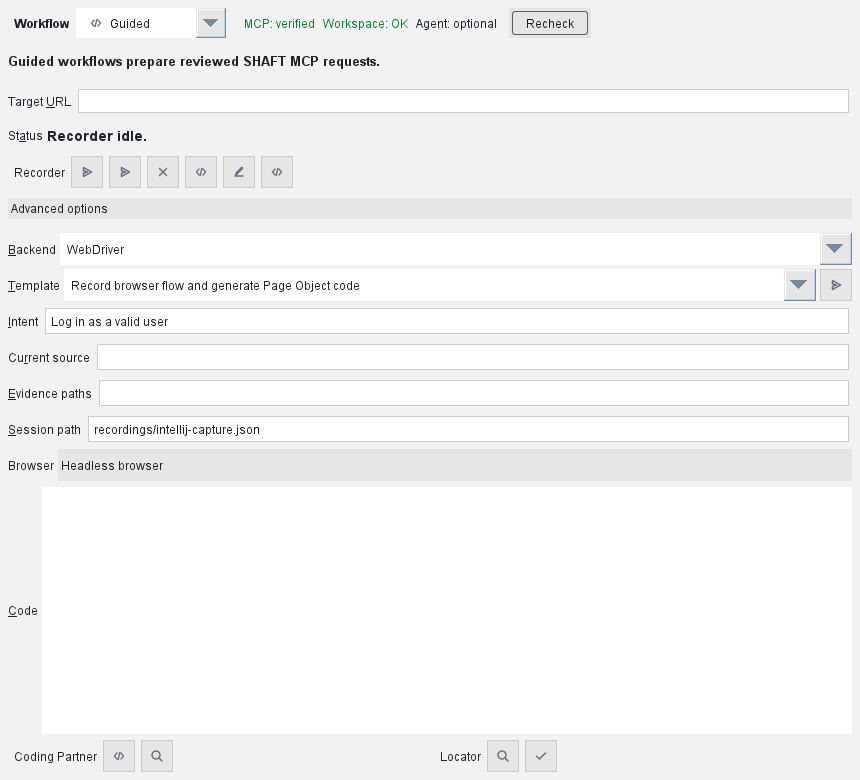
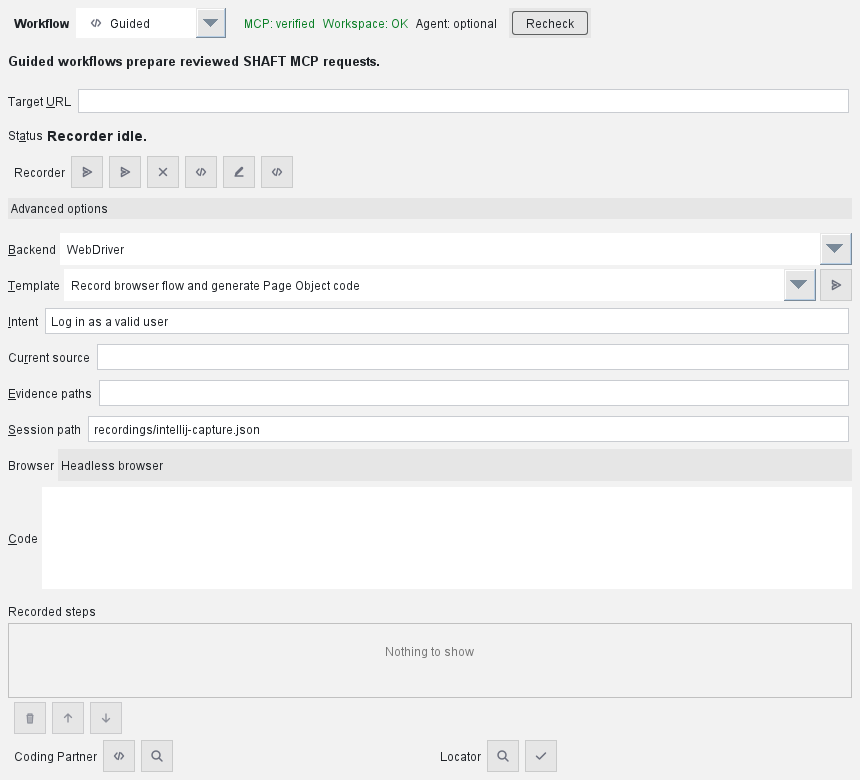
docs: catalog the Phase 4/5 shipped items (#3634-#3642), regenerate guided.png
Adds a "What Changed" row summarizing the 9 shipped issues. Regenerated
intellij-plugin-guided.png (the only catalog screenshot that actually
changed content -- it now shows #3639's recorded-step Delete/Move
Up/Move Down icons); every other rendered screenshot's diff was
environment noise (font/AA) from panels none of these issues touched,
so those weren't committed.

Along the way, fixed ShaftPluginScreenshotRendererTest.invokeShowResult's
reflection lookup: ShaftFeaturePanel.showResult gained a Project
parameter in #3647 (Phase 2), and the reflection-based test call was
never updated, so -Dshaft.intellij.screenshotDir=... has been throwing
NoSuchMethodException since. Pre-existing bit-rot, not part of #3634-#3642,
but it blocked regenerating any screenshot via this test.

diff --git a/shaft-intellij/src/test/java/com/shaft/intellij/ui/ShaftPluginScreenshotRendererTest.java b/shaft-intellij/src/test/java/com/shaft/intellij/ui/ShaftPluginScreenshotRendererTest.java
@@ -732,7 +732,8 @@ class ShaftPluginScreenshotRendererTest {
         AtomicReference<BufferedImage> image = new AtomicReference<>();
         SwingUtilities.invokeAndWait(() -> {
             configureLookAndFeel(lookAndFeelClassName, dark);
-            ShaftFeaturePanel component = new ShaftFeaturePanel(screenshotProject(), defaultSettings());
+            Project project = screenshotProject();
+            ShaftFeaturePanel component = new ShaftFeaturePanel(project, defaultSettings());
             invokeShowResult(component, "doctor_analyze_failed_allure", ShaftMcpToolResult.success("""
                     {
                       "schemaVersion": "1.0",
@@ -756,7 +757,7 @@ class ShaftPluginScreenshotRendererTest {
                       "markdownReportPath": "target/shaft-doctor/doctor-report.md",
                       "warnings": []
                     }
-                    """), null);
+                    """), null, project);
             component.setSize(new Dimension(WIDTH, HEIGHT));
             component.setPreferredSize(new Dimension(WIDTH, HEIGHT));
             SwingUtilities.updateComponentTreeUI(component);
@@ -768,12 +769,13 @@ class ShaftPluginScreenshotRendererTest {
     }
 
     private static void invokeShowResult(
-            ShaftFeaturePanel component, String toolName, ShaftMcpToolResult result, Throwable error) {
+            ShaftFeaturePanel component, String toolName, ShaftMcpToolResult result, Throwable error,
+            Project project) {
         try {
             Method method = ShaftFeaturePanel.class.getDeclaredMethod(
-                    "showResult", String.class, ShaftMcpToolResult.class, Throwable.class);
+                    "showResult", String.class, ShaftMcpToolResult.class, Throwable.class, Project.class);
             method.setAccessible(true);
-            method.invoke(component, toolName, result, error);
+            method.invoke(component, toolName, result, error, project);
         } catch (ReflectiveOperationException exception) {
             throw new IllegalStateException("Unable to render the Tools panel result", exception);
         }

diff --git a/modular-era-feature-catalog.md b/modular-era-feature-catalog.md
@@ -225,6 +225,7 @@ Every screenshot in this catalog is real repository evidence under `shaft-engine
 | IntelliJ and MCP hardening for issue #3244 | Onboarding preflight now validates Windows JDK21 `JAVA_HOME` state and auto-creates `%JAVA_HOME%\\Packages` when possible, then reports clear missing/invalid/unwritable diagnostics; recorder re-record flows map discard to `capture_stop` with `discard=true`; and `shaft_project_create` supports optional `shaftVersion` with blank/null defaulting to the latest published stable `shaft-engine` while bundled example POMs remain reactor-versioned. | `intellij-plugin-mcp-setup.png`, `intellij-plugin-mcp-setup-error-dark.png`, `intellij-plugin-recorder.png`, `mcp-tools.png` |
 | Non-SHAFT-project hardening for issues #3396/#3397 | Every SHAFT-only Assistant action now gates on a real SHAFT dependency: tool approvals ("approve once/tool/all") persist per project instead of application-wide, the MCP connection heartbeat no longer polls in non-SHAFT projects, and mutating Assistant tools (`shaft_project_upgrade`, `verify_run_focused`, healer/doctor triage) return an onboarding nudge toward Create/Upgrade SHAFT Project instead of running. Settings > SHAFT "Test Connection" now probes the open project's workspace instead of the IDE process's own working directory. `healer_run_failed_test` fails fast with a guardrail message instead of burning guarded Maven builds when the target repository has no SHAFT dependency, and SHAFT MCP workspace errors for a missing Allure/report path now read as "no SHAFT setup found here" instead of a sandbox-escape message. | `intellij-plugin-assistant.png`, `intellij-plugin-assistant-approval-prompt.png`, `intellij-plugin-settings.png`, `intellij-plugin-settings-dark.png` |
 | IntelliJ trust/polish for issue #3601 (remaining scope) | Setup wizard: finished steps collapse to a compact line once a later step is active (click or Enter/Space to re-expand), the Target/Runtime line reads as a de-emphasized caption with "MCP" spelled out on first mention, the six steps are threaded by a connecting rule, raw probe output on failure hides behind a "Show details" toggle, and a non-destructive "Connection & agents" button re-checks readiness without the "Reset everything" factory reset. Settings: the MCP stdio command field is read-only once a wizard-set command exists, with an "Edit manually" gate before direct editing. Assistant: the first-run welcome no longer uses list-item emoji and now orients first-time users to the icon-only toolbar, "Allow source edits" gets a distinct bordered treatment from the neutral Verbose/Auto-compact toggles, a dismissible hint points fresh (non-SHAFT) projects at the "Create a new SHAFT project" template, and tool results now show narrative Markdown with a per-message "Show raw output" disclosure toggle for the underlying raw evidence (A5) instead of only a bulk transcript-export appendix. Guided: a dismissible soft prompt nudges collapsed-view users toward Advanced options for templates/backend controls. Accessibility: informational labels across the setup wizard, Assistant, Settings, and Guided panels now expose their live, dynamically-updated text to screen readers via an accessible description that tracks every `setText` update, not just a static category name (issue #3603; remaining same-shape labels tracked separately as #3605). | `intellij-plugin-mcp-setup.png`, `intellij-plugin-mcp-setup-success.png`, `intellij-plugin-mcp-setup-error-dark.png`, `intellij-plugin-mcp-setup-narrow-dark.png`, `intellij-plugin-assistant.png`, `intellij-plugin-assistant-empty.png`, `intellij-plugin-assistant-dark.png`, `intellij-plugin-assistant-tool-result-raw-output.png`, `intellij-plugin-guided.png`, `intellij-plugin-settings.png`, `intellij-plugin-settings-dark.png` |
+| IntelliJ Phase 4/5 hardening for issues #3634-#3642 | Success status color now passes WCAG contrast in dark themes; the Pin Response Fields dialog is a proper modal `DialogWrapper`; the selected workflow view and feature-panel split position persist across restarts; day-to-day action buttons carry per-action notification titles instead of a generic "SHAFT" banner; the API recording session panel (the last panel with visible-text buttons, now that every other one is icon-only) gets Alt-reachable mnemonics for Stop/Pin Fields/Generate/Copy CA Certificate; Guided's recorded-step list gains Delete/Move Up/Move Down for Playwright and Mobile recordings (shown below); the SHAFT Tests tab gains double-click Run and Ctrl+double-click Navigate on any row; watch mode now correlates a saved file against the last run's target class before replaying, offering a "Run `<Class>`" action on a mismatch instead of silently rerunning a stale test; and Doctor/Healer evidence screenshots render inline in the assistant transcript instead of requiring a separate file open. | `intellij-plugin-guided.png` |
 | SikuliX desktop automation | Desktop image automation lives in `shaft-sikulix`, so projects opt into `com.sikulix:sikulixapi` only when they need image-based desktop flows. | `tools/modularization/consumer-fixtures/sikulix/pom.xml`, `tests/scripts/test_sikulix_module_boundary.py` |
 | Recorder-to-code workflow | Capture real user actions, preserve edited step intent and checkpoints, plan reuse with `shaft_coding_partner_plan`, then generate TestNG replay snippets, setup/assertion/control-flow review blocks, locator/action summaries, patch previews, backend comparisons, evidence manifests, and Page Object insertions. | `web-recorder.png`, `capture-catalog.png`, `intellij-plugin-guided.png` |
 | Locator-first mobile recording | Resolve Appium Inspector pointer gestures through the accessibility tree, then generate ranked locator inventories, Page Object drafts, and record-at-target snippets before using coordinate fallback. | `android-recorder-working.png`, `android-recorder-locator-details.png` |